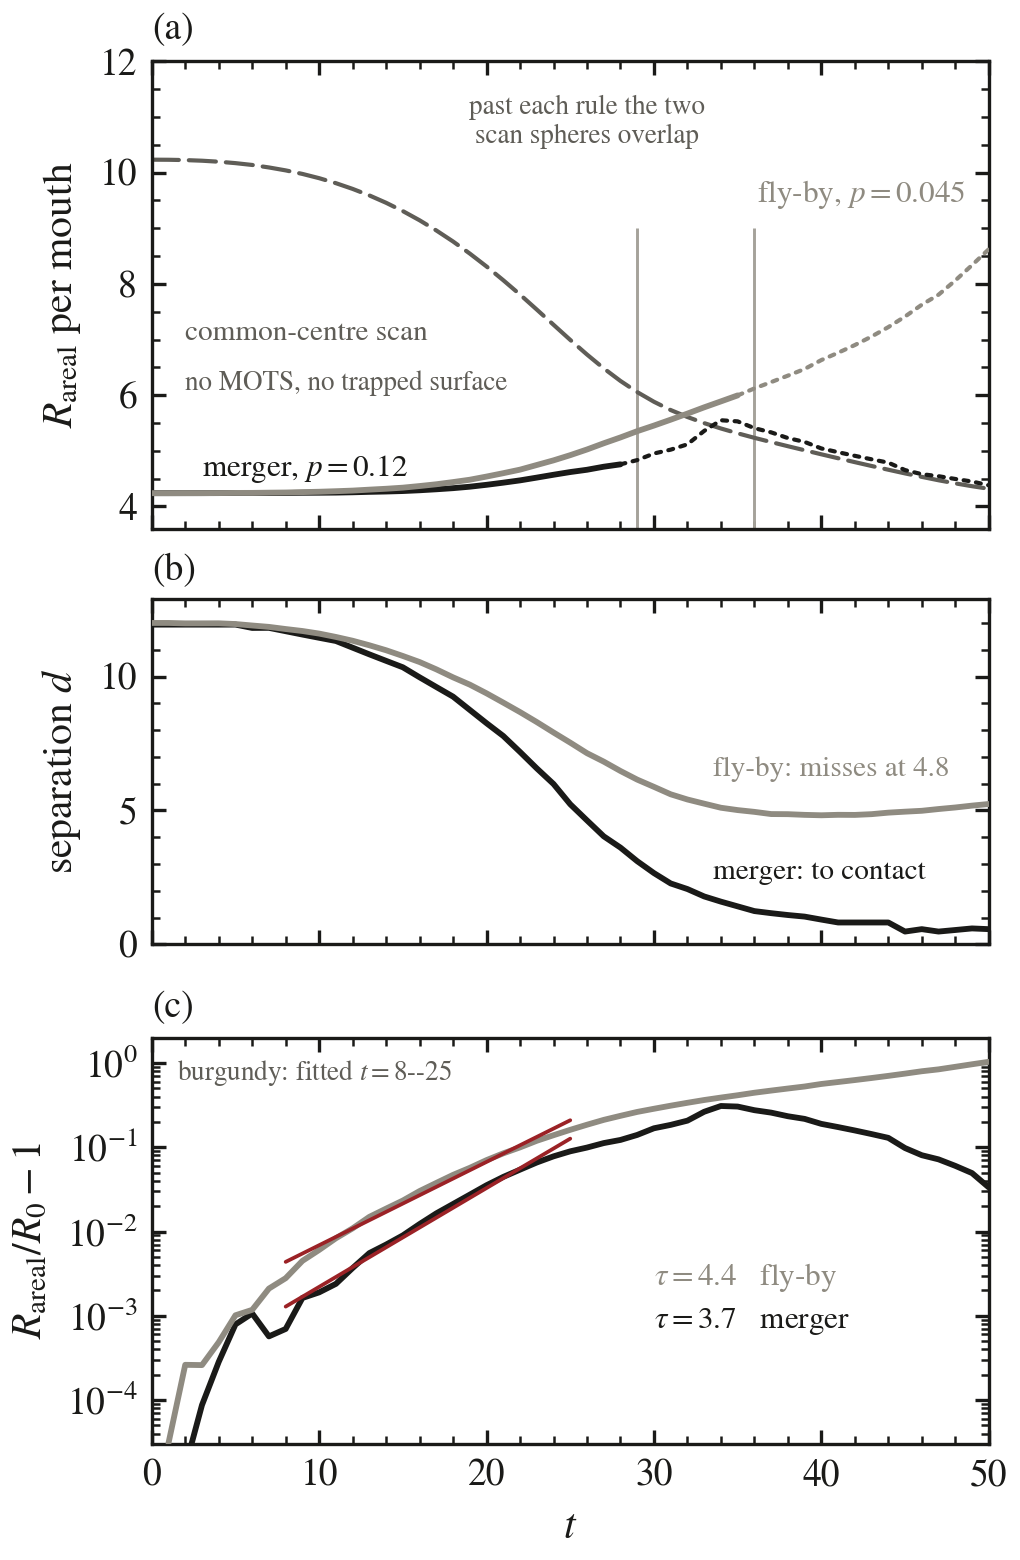
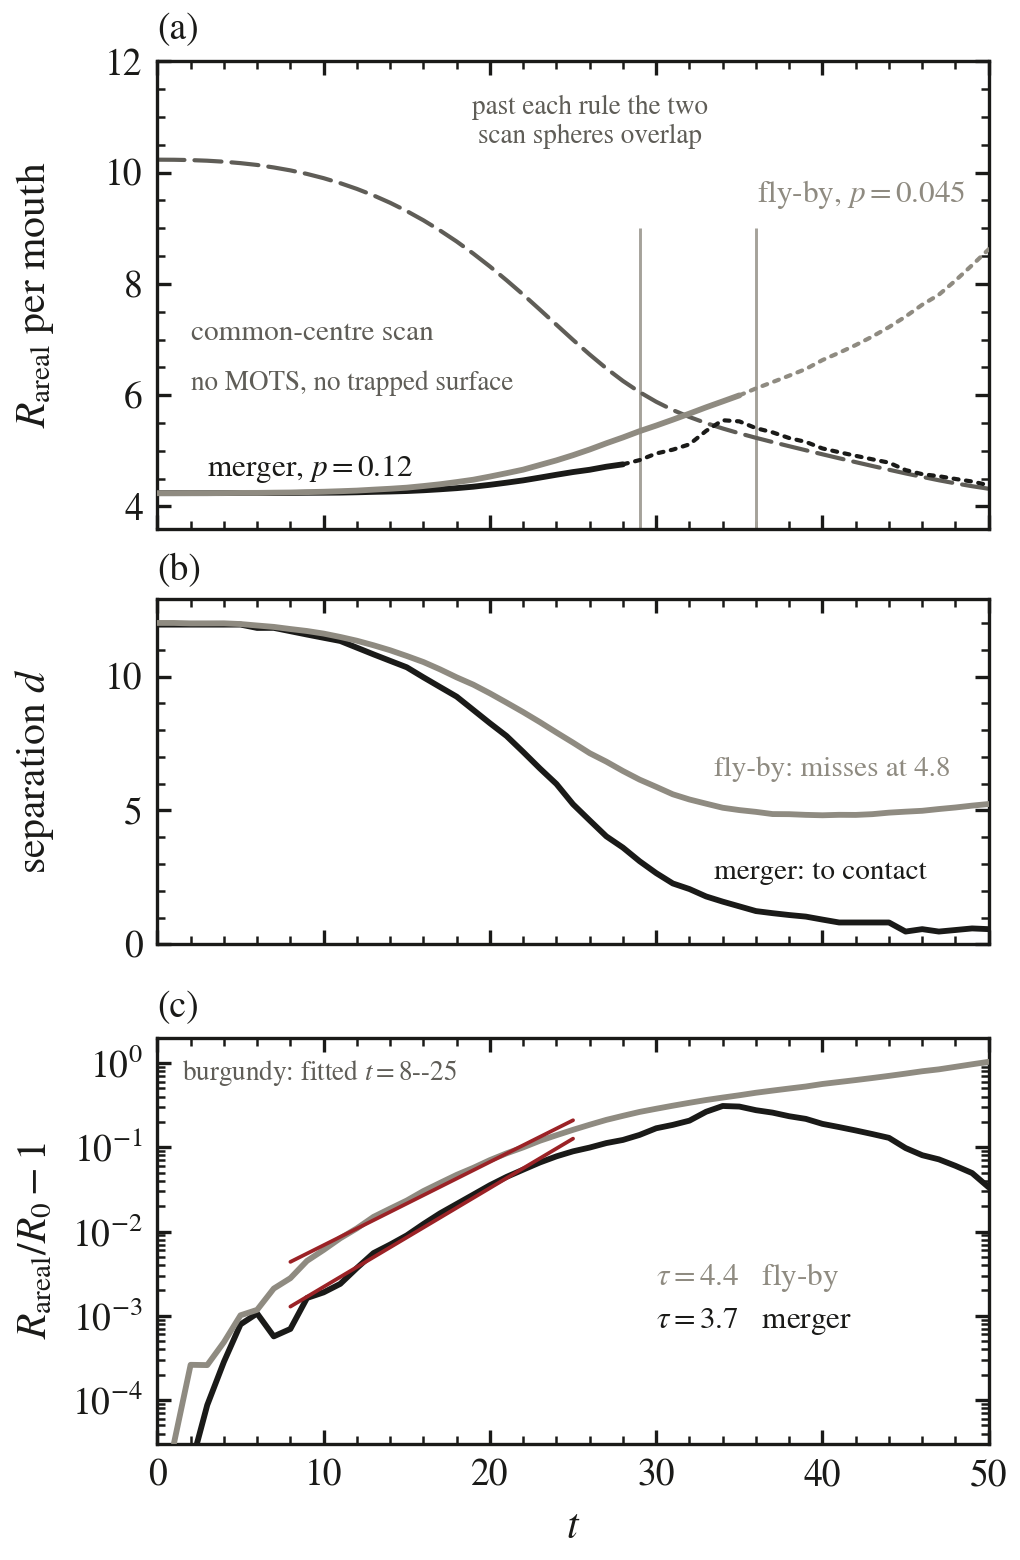
viz(merger): the three y labels sit on one line -- the log decades in (c) were indenting their own axis

diff --git a/grteclyn-wrapper/src/grteclyn_wrapper/visualisation/wormhole_merger/plot_mouth_growth.py b/grteclyn-wrapper/src/grteclyn_wrapper/visualisation/wormhole_merger/plot_mouth_growth.py
@@ -183,6 +183,11 @@ def main(argv: list[str] | None = None) -> int:
              transform=axC.transAxes, fontsize=6.5, color=style.MUTED,
              va="top")
 
+    # Panel (c)'s decade ticks are far wider than (a)'s and (b)'s integers, so
+    # each y label would otherwise sit at its own indent and the stack would
+    # read as three figures rather than one page.
+    fig.align_ylabels((axA, axB, axC))
+
     for k, ax in enumerate((axA, axB, axC)):
         ax.text(0.0, 1.03, f"({'abc'[k]})", transform=ax.transAxes,
                 ha="left", va="bottom", fontsize=9, color=style.INK)
